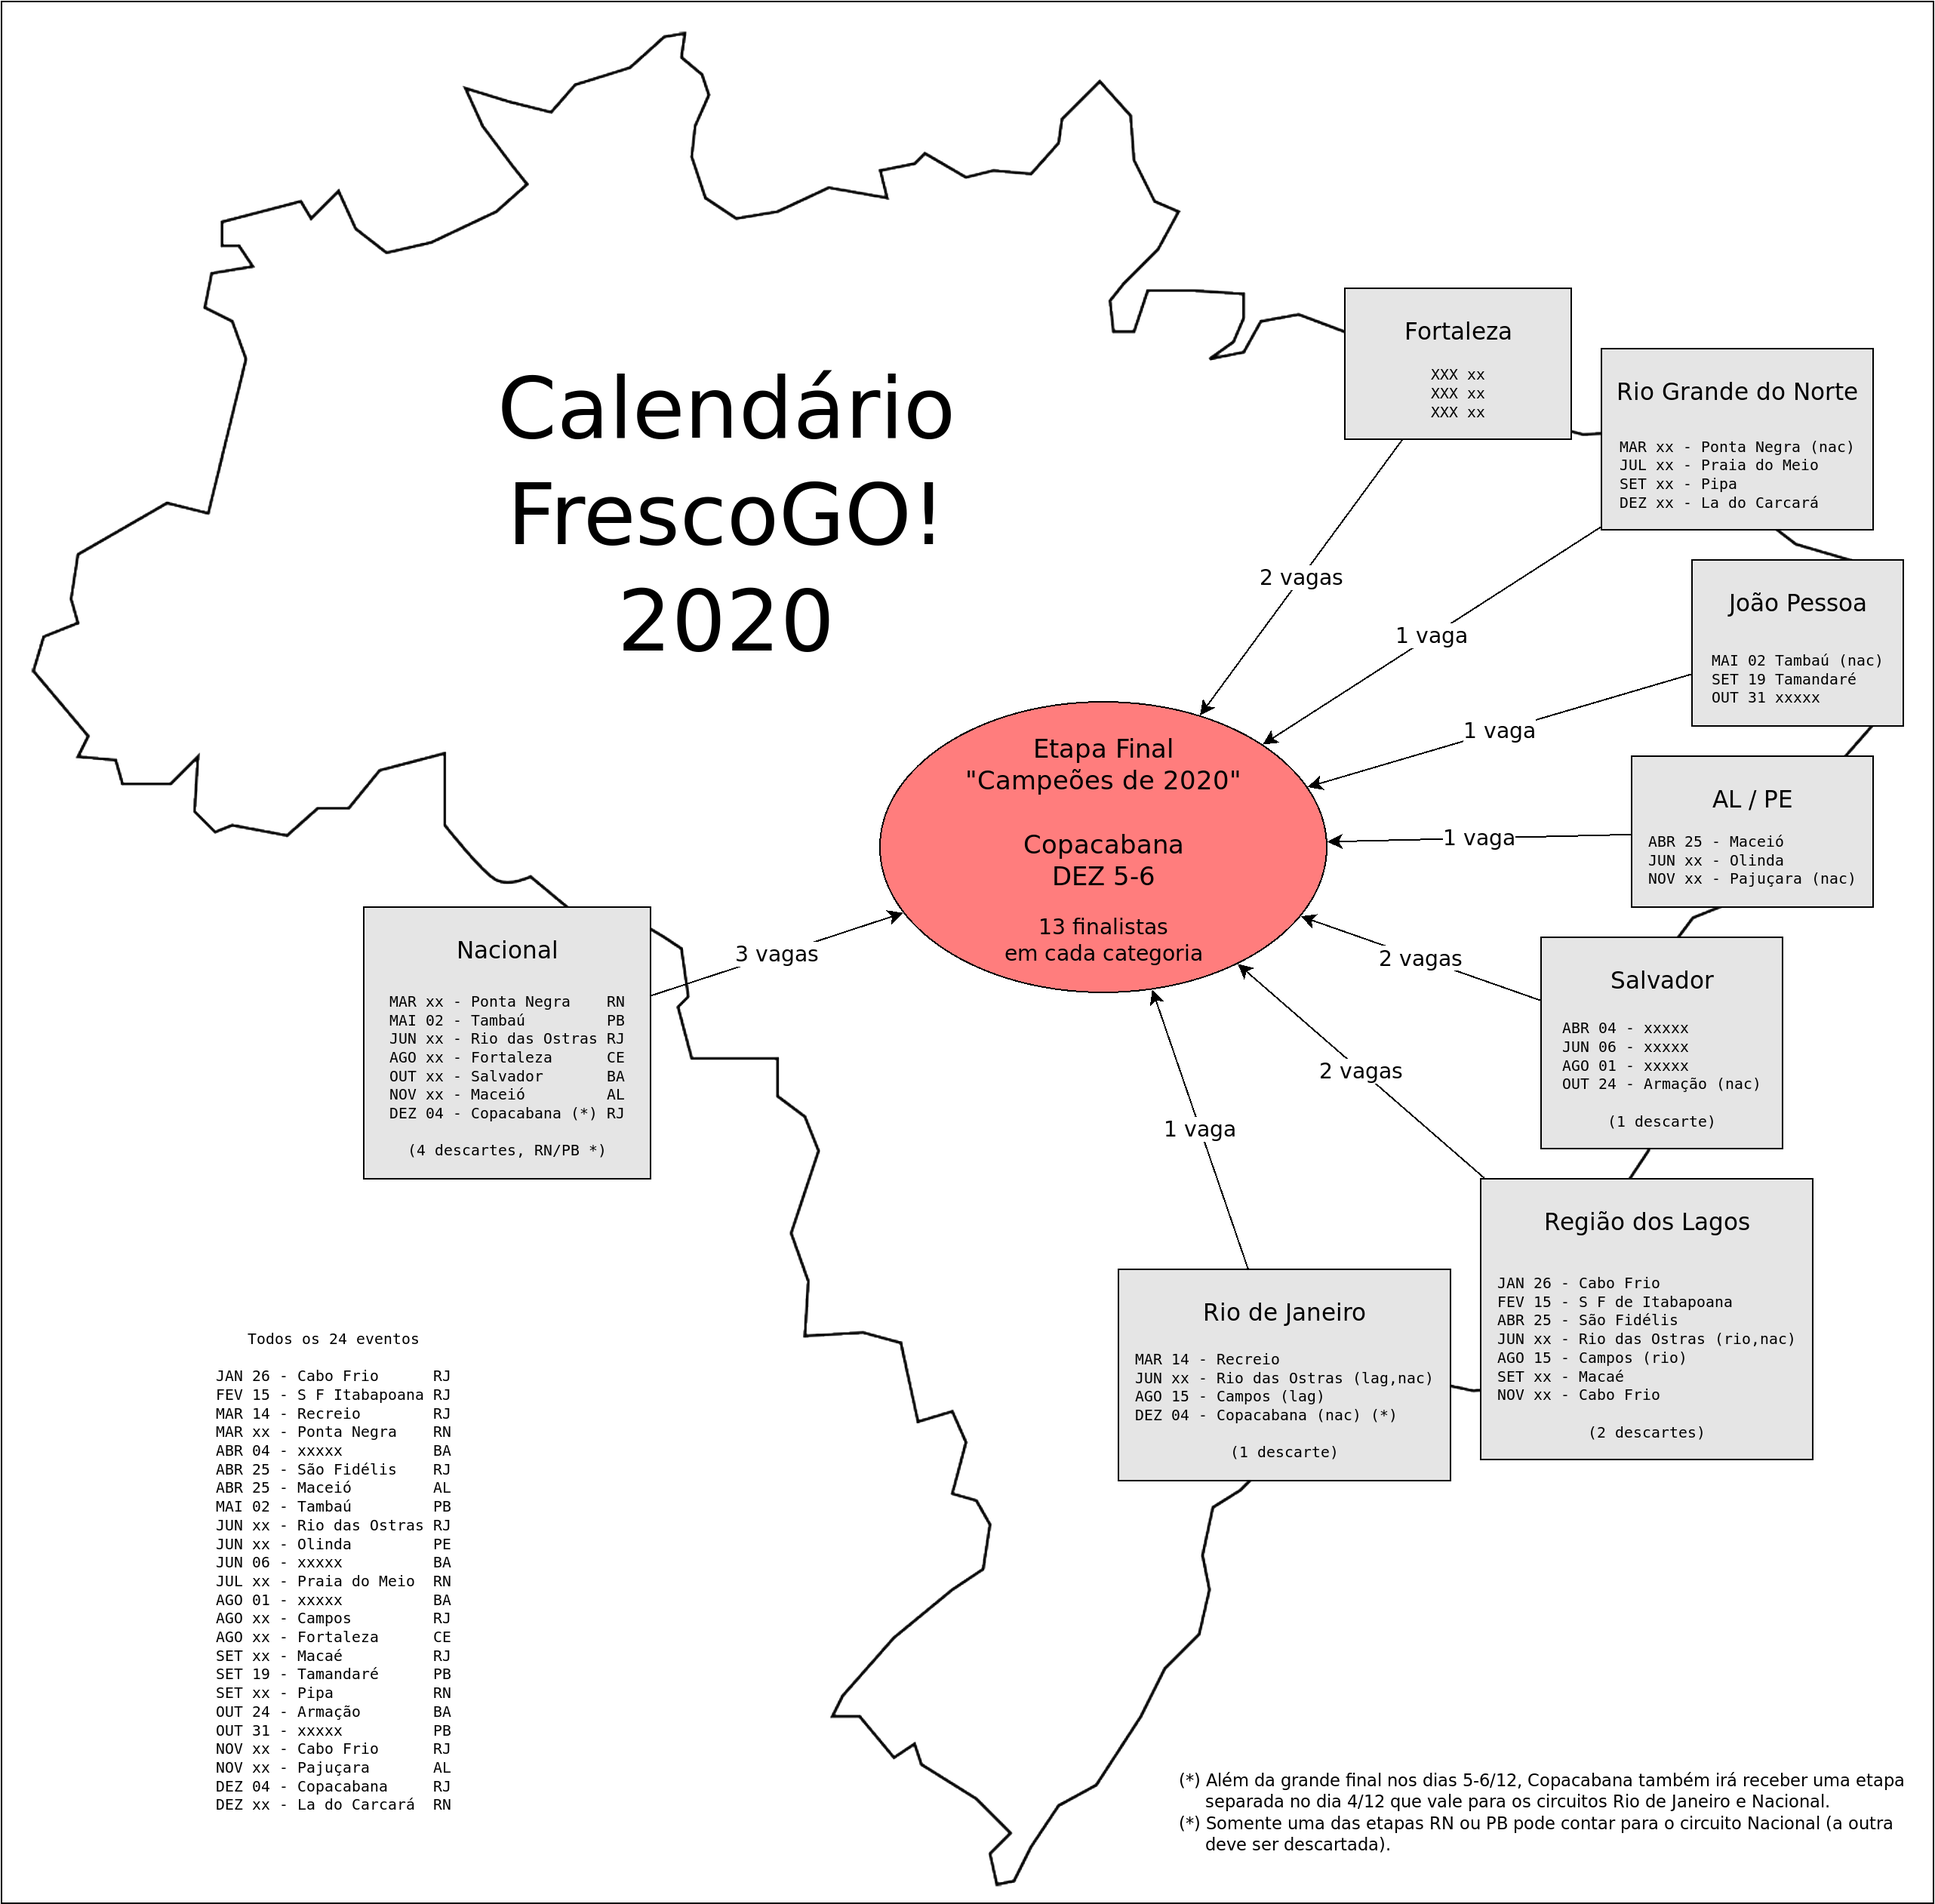
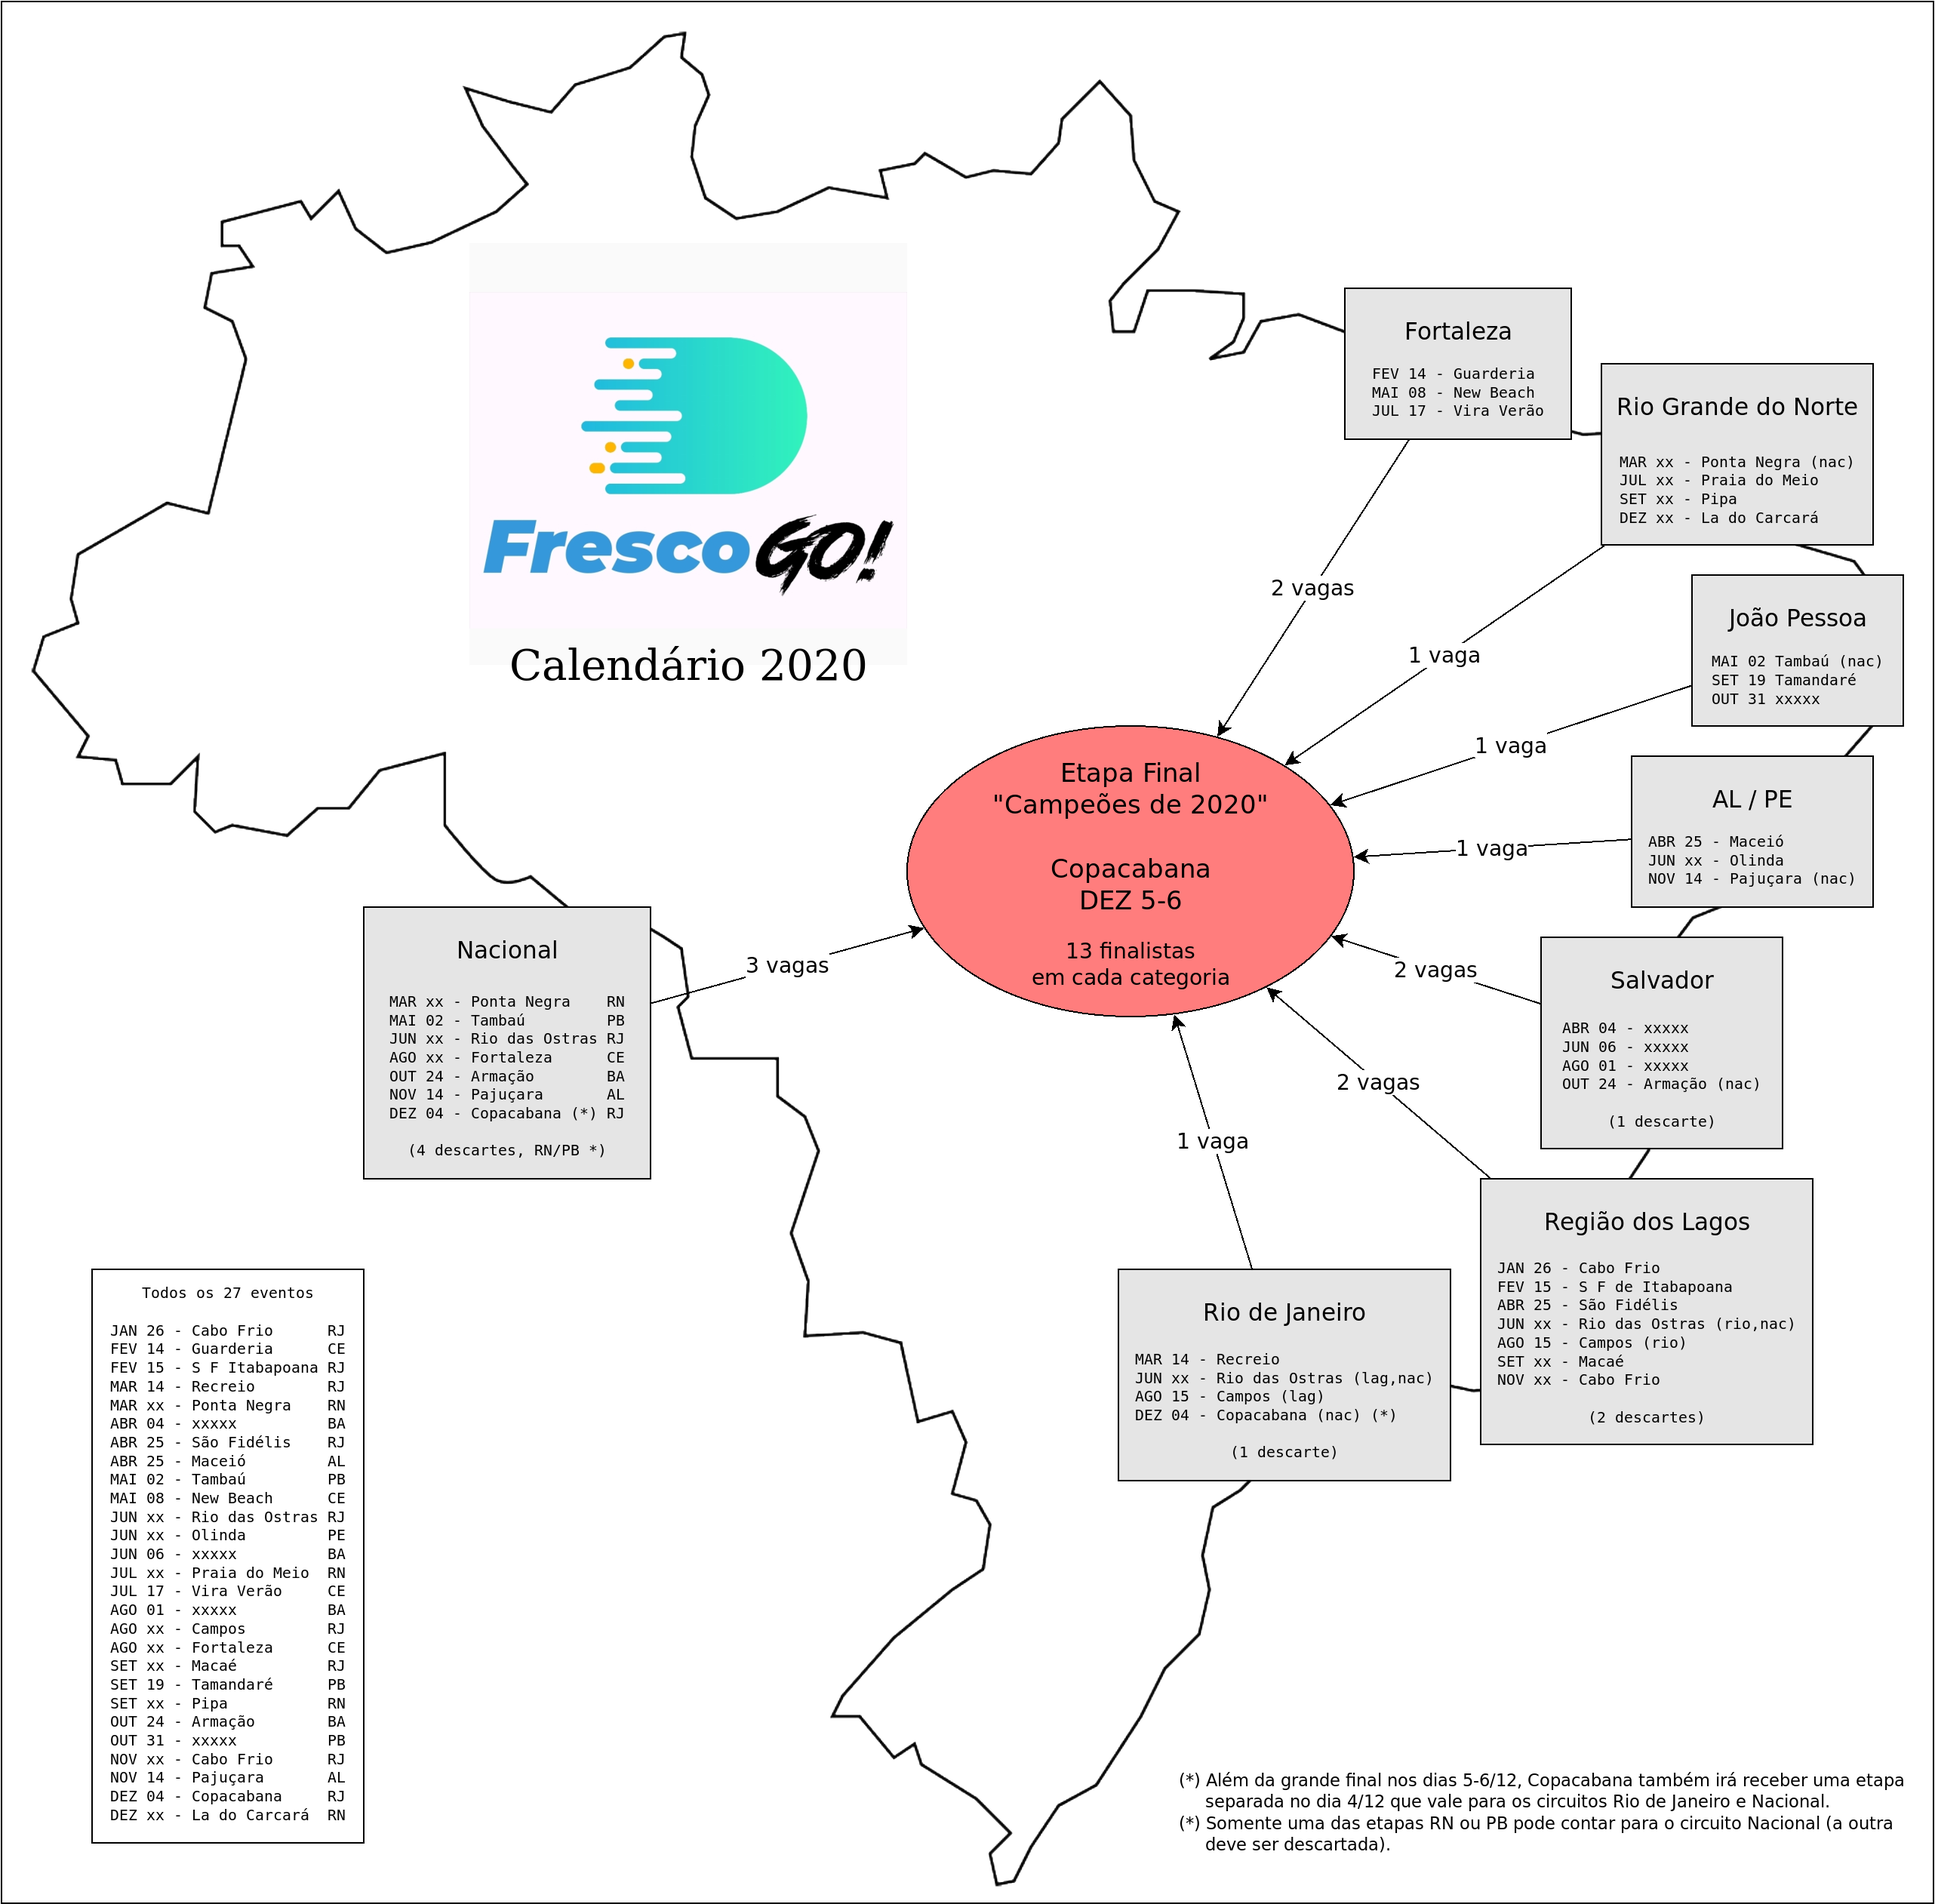
Calendario 2020

diff --git a/calendario/calendario.md b/calendario/calendario.md
@@ -1,6 +1,6 @@
 # Calendário FrescoGO! 2020
 
-Serão 24 eventos espalhados pelo Brasil com a grande final de Copacabana em dezembro.
+Serão 27 eventos espalhados pelo Brasil com a grande final de Copacabana em dezembro.
 
 A final terá 13 vagas para cada uma das 6 categorias: `Feminina A/B`, `Masculina A/B`, `Mista A/B`.
 
@@ -26,7 +26,7 @@ Os finalistas virão de 7 circuitos regionais além de 1 circuito nacional (que 
     6. Maceió (AL)
     7. Copacabana (RJ)
 
-As 24 etapas usarão o sistema `FrescoGO! v2`.
+As 27 etapas usarão o sistema `FrescoGO! v2`.
 
 A organização local de cada etapa decide o formato de disputa (quantidade de dias e jogos, etc) e os parâmetros do sistema (tempo, distância e revés).
 Após cada etapa, a organização local repassa as posições finais à organização regional e à nacional (caso seja uma etapa nacional).
